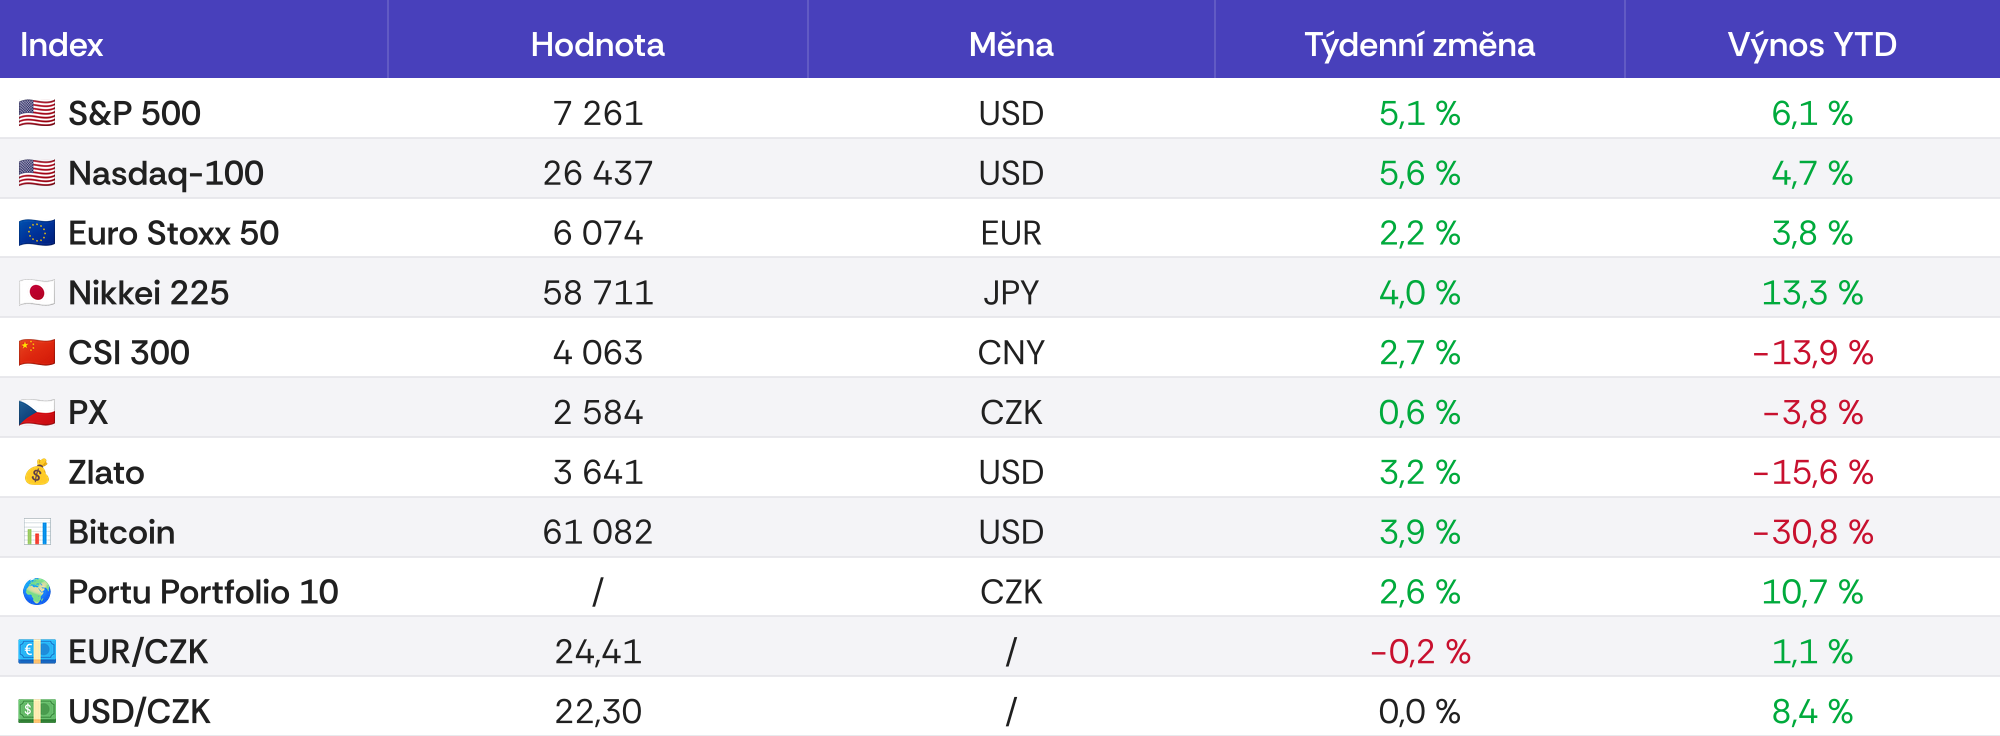
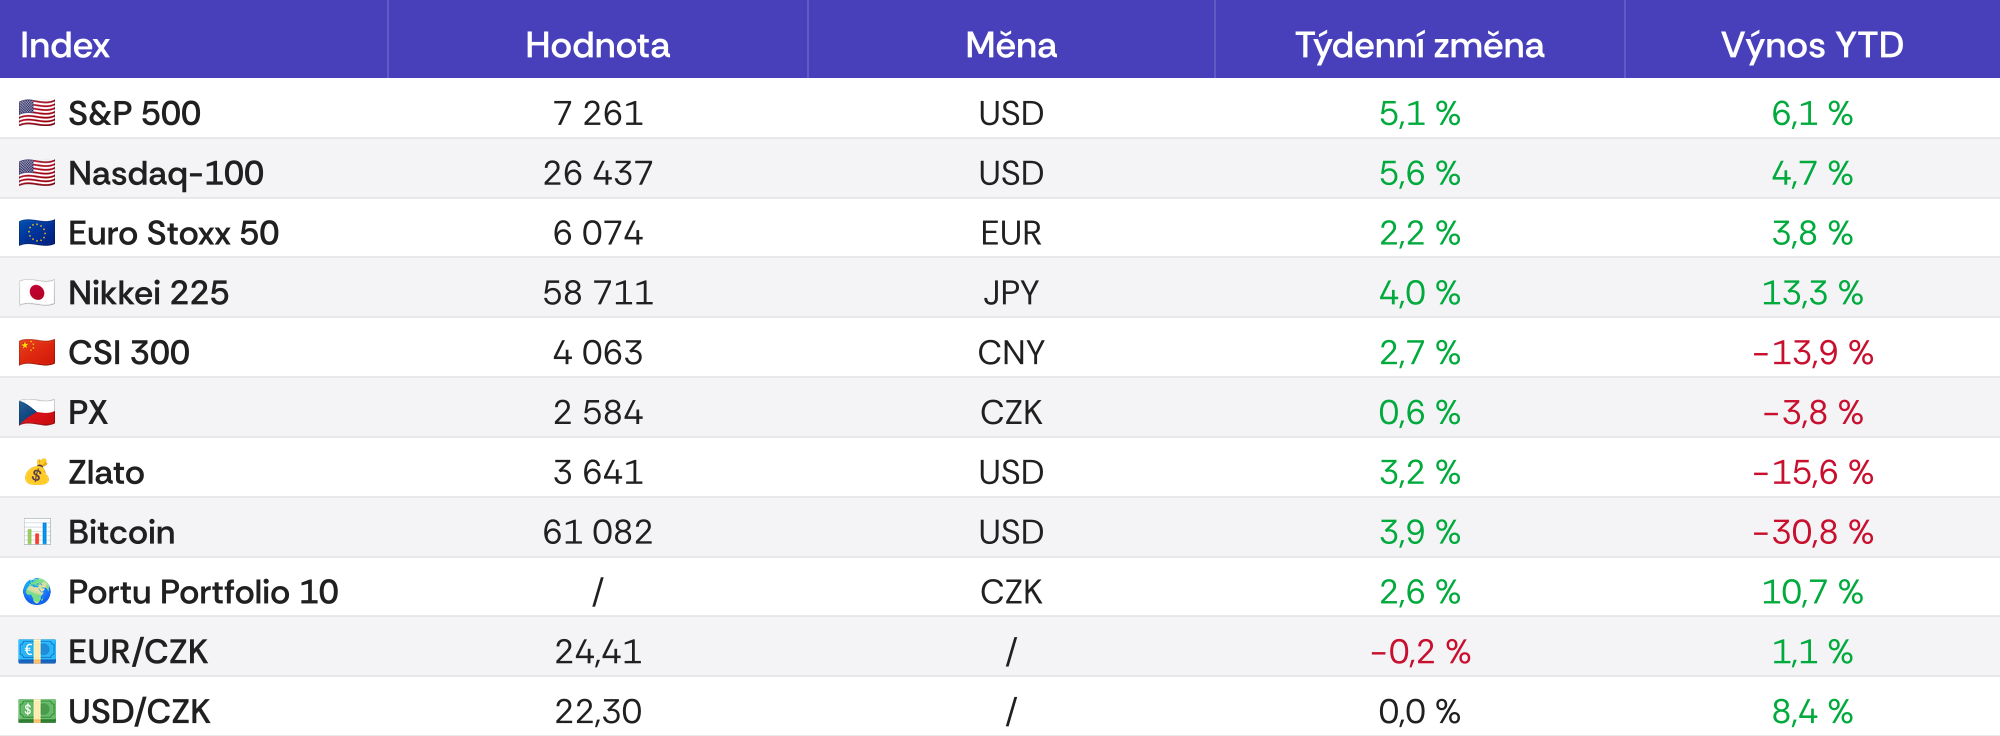
Tabulka trhů: záhlaví sloupců ve fialové hlavičce o 1 bod větší
Claude-Session: https://claude.ai/code/session_01A8r6cxYv4z3RaLJthvcQAS

diff --git a/vystupy/grafy/2026-11-27-newsletter-trhy.py b/vystupy/grafy/2026-11-27-newsletter-trhy.py
@@ -37,6 +37,7 @@ ZAPORNA = "#C8102E"
 W, H, DPI = 2000, 736, 200   # stejné rozlišení jako předloha
 PT = DPI / 72
 PISMO = 31.5 + 1 * PT        # stejná výška číslic jako v předloze (22 px) + 1 bod
+PISMO_HLAVICKA = PISMO + 1 * PT  # záhlaví sloupců ve fialové hlavičce ještě o 1 bod větší než řádky
 
 IKONY = {"S&P 500": "🇺🇸", "Nasdaq-100": "🇺🇸", "Euro Stoxx 50": "🇪🇺", "Nikkei 225": "🇯🇵", "CSI 300": "🇨🇳",
          "PX": "🇨🇿", "Zlato": "💰", "Bitcoin": "📊", "Portu Portfolio 10": "🌍", "EUR/CZK": "💶", "USD/CZK": "💵"}
@@ -60,8 +61,8 @@ ax.set_ylim(H, 0)
 ax.axis("off")
 
 
-def text(x, y, s, barva, font, **kw):
-    return ax.text(x, y, s, fontsize=PISMO / PT, color=barva, fontproperties=font, **kw)
+def text(x, y, s, barva, font, velikost=None, **kw):
+    return ax.text(x, y, s, fontsize=(velikost or PISMO) / PT, color=barva, fontproperties=font, **kw)
 
 
 SLOUPCE = [0, 388, 808, 1215, 1625, W]
@@ -70,9 +71,9 @@ STREDY = [(a + b) / 2 for a, b in zip(SLOUPCE[1:], SLOUPCE[2:])]
 ax.add_patch(Rectangle((0, 0), W, VYSKA_HL, facecolor=pg.FIALOVA, edgecolor="none"))
 for x in SLOUPCE[1:-1]:  # jemné dělení sloupců v hlavičce jako v předloze
     ax.plot([x, x], [0, VYSKA_HL], color="white", alpha=0.18, linewidth=1.5 / PT)
-text(20, VYSKA_HL / 2, "Index", "white", SEMIBOLD, va="center_baseline")
+text(20, VYSKA_HL / 2, "Index", "white", SEMIBOLD, PISMO_HLAVICKA, va="center_baseline")
 for x, nazev in zip(STREDY, ("Hodnota", "Měna", "Týdenní změna", "Výnos YTD")):
-    text(x, VYSKA_HL / 2, nazev, "white", SEMIBOLD, ha="center", va="center_baseline")
+    text(x, VYSKA_HL / 2, nazev, "white", SEMIBOLD, PISMO_HLAVICKA, ha="center", va="center_baseline")
 
 y = VYSKA_HL
 for i, r in enumerate(radky):
